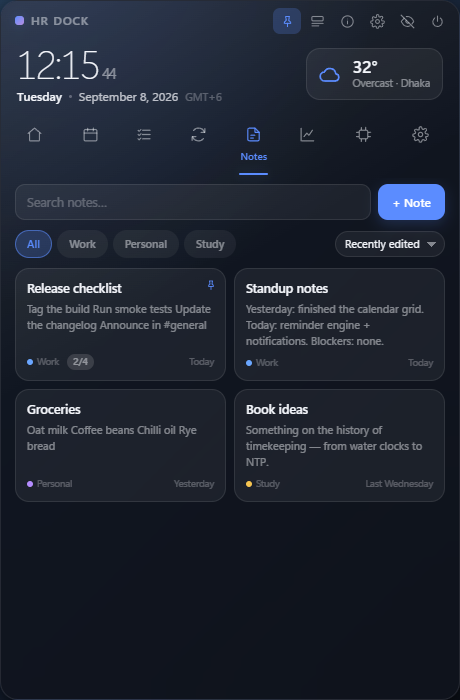
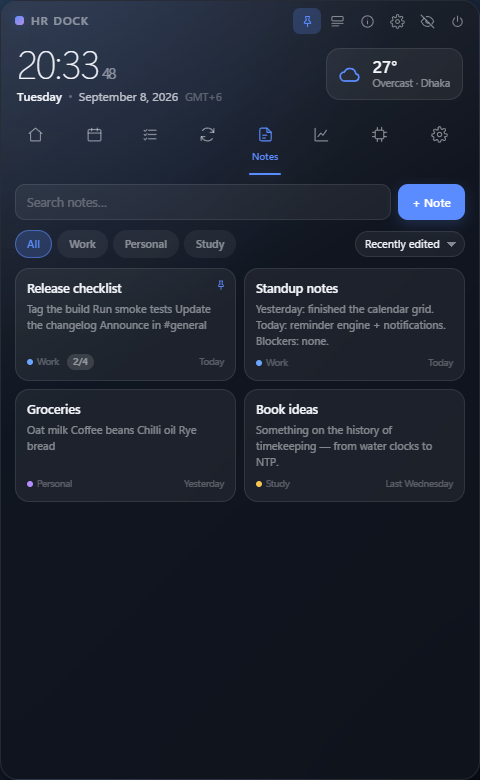
Fix editor chrome and tighten the layout at every window size
Audited the UI at 380x460, 480x780, 720x760 and 520x1000 and fixed what the
measurements caught.

- The note editor's delete and close buttons were markup with no glyph, so
  they had been invisible since the first build: two real controls you had to
  already know were there.
- The editor toolbar wrapped onto four rows at every size. Formatting is now
  one row that scrolls rather than wraps, with colour and category on their
  own labelled row, and the glyphs come from the icon set instead of a mix of
  emoji and ASCII that rendered differently on every machine.
- The month heatmap stranded itself in a third of its card on a wide window.
  It is centred now, with weekday column headings and a centred legend, so it
  reads as a month rather than a blob.
- Stat tiles, system gauges and weather metrics use auto-fit grids, so a wider
  window gains columns instead of stretching cells.
- Default window is 480x780: the Today view carries ~960px of content, and the
  old 700px frame put the schedule below the fold on first run.

Verified: no element overflows its container at any of the four sizes, the
chrome and tab bar fit at the 380px minimum, and a sweep of 472 buttons found
no other control without a visible glyph.

diff --git a/src/renderer/css/components.css b/src/renderer/css/components.css
@@ -180,7 +180,8 @@ input[type="range"]::-webkit-slider-thumb:active { transform: scale(1.15); }
 .wx-place svg { width: 11px; height: 11px; }
 
 .wx-metrics {
-  display: grid; grid-template-columns: repeat(4, 1fr);
+  display: grid;
+  grid-template-columns: repeat(auto-fit, minmax(84px, 1fr));
   gap: 8px; margin-top: 14px;
 }
 .wx-metric {
@@ -550,7 +551,11 @@ html[data-theme="light"] .note-editor { background: #f9fafd; }
 }
 
 /* -------------------------------------------------------------- insights */
-.stat-grid { display: grid; grid-template-columns: repeat(2, 1fr); gap: 8px; margin-top: 6px; }
+.stat-grid {
+  display: grid;
+  grid-template-columns: repeat(auto-fit, minmax(150px, 1fr));
+  gap: 8px; margin-top: 6px;
+}
 .stat {
   padding: 12px;
   border-radius: var(--radius-lg);
@@ -579,10 +584,19 @@ html[data-theme="light"] .note-editor { background: #f9fafd; }
 .bar-col .bar-val { font-size: 10px; color: var(--ink-3); font-variant-numeric: tabular-nums; }
 
 .heat {
-  display: grid; grid-template-columns: repeat(7, 1fr); gap: 3px;
-  /* Cap the width so the day cells stay small squares rather than growing
-     into a wall of tiles on a wide widget. */
-  max-width: 232px;
+  display: grid; grid-template-columns: repeat(7, 1fr); gap: 4px;
+  /* Cap the width so cells stay squares, and centre it so a wide widget does
+     not strand the grid against the left edge of its card. */
+  max-width: 252px;
+  margin: 0 auto;
+}
+.heat-days {
+  display: grid; grid-template-columns: repeat(7, 1fr); gap: 4px;
+  max-width: 252px; margin: 0 auto 5px;
+}
+.heat-days span {
+  text-align: center; font-size: 9px; font-weight: 600;
+  letter-spacing: .04em; text-transform: uppercase; color: var(--ink-4);
 }
 .heat i {
   aspect-ratio: 1; border-radius: 3px;
@@ -596,7 +610,7 @@ html[data-theme="light"] .note-editor { background: #f9fafd; }
 .heat i[data-l="4"] { background: var(--accent); }
 .heat i.future { opacity: .3; }
 .heat-legend {
-  display: flex; align-items: center; gap: 4px; justify-content: flex-end;
+  display: flex; align-items: center; gap: 4px; justify-content: center;
   margin-top: 8px; font-size: 9.5px; color: var(--ink-4);
 }
 .heat-legend i { width: 10px; height: 10px; border-radius: 2px; background: var(--surface-3); }
@@ -623,7 +637,11 @@ html[data-theme="light"] .note-editor { background: #f9fafd; }
 .focus-copy p { font-size: 11px; color: var(--ink-3); }
 
 /* ---------------------------------------------------------------- system */
-.gauge-row { display: grid; grid-template-columns: repeat(2, 1fr); gap: 8px; margin-top: 6px; }
+.gauge-row {
+  display: grid;
+  grid-template-columns: repeat(auto-fit, minmax(180px, 1fr));
+  gap: 8px; margin-top: 6px;
+}
 .gauge {
   display: flex; align-items: center; gap: 11px;
   padding: 12px; border-radius: var(--radius-lg);
@@ -1016,3 +1034,27 @@ mark {
 }
 .rte a { color: var(--accent); text-decoration: underline; text-underline-offset: 2px; cursor: pointer; }
 .rte a:hover { text-decoration-thickness: 2px; }
+
+/* ------------------------------------------------------ note editor chrome */
+/* The formatting row never wraps; on a very narrow widget it scrolls instead,
+   which keeps the editor looking like a toolbar rather than a pile. */
+.rte-toolbar {
+  flex-wrap: nowrap;
+  overflow-x: auto;
+  scrollbar-width: none;
+  border-bottom: none;
+  padding-bottom: 4px;
+}
+.rte-toolbar::-webkit-scrollbar { height: 0; }
+.rte-toolbar button { flex: 0 0 auto; display: grid; place-items: center; }
+.rte-toolbar button svg { display: block; }
+.rte-letter { font-size: 12.5px; }
+.rte-letter b, .rte-letter i, .rte-letter u, .rte-letter s { font-style: normal; }
+.rte-letter i { font-style: italic; }
+
+.note-props {
+  display: flex; align-items: center; gap: 10px;
+  padding: 0 12px 9px;
+  border-bottom: 1px solid var(--stroke);
+}
+.note-props .note-colors { margin: 0; }

diff --git a/src/renderer/index.html b/src/renderer/index.html
@@ -169,19 +169,20 @@
           <button class="icon-btn sm" id="noteClose" title="Save and close"></button>
         </div>
         <div class="rte-toolbar" id="rteToolbar">
-          <button data-cmd="bold" title="Bold"><b>B</b></button>
-          <button data-cmd="italic" title="Italic"><i>I</i></button>
-          <button data-cmd="underline" title="Underline"><u>U</u></button>
-          <button data-cmd="strikeThrough" title="Strikethrough"><s>S</s></button>
+          <button data-cmd="bold" title="Bold  ·  Ctrl+B" class="rte-letter"><b>B</b></button>
+          <button data-cmd="italic" title="Italic  ·  Ctrl+I" class="rte-letter"><i>I</i></button>
+          <button data-cmd="underline" title="Underline  ·  Ctrl+U" class="rte-letter"><u>U</u></button>
+          <button data-cmd="strikeThrough" title="Strikethrough" class="rte-letter"><s>S</s></button>
           <span class="rte-sep"></span>
-          <button data-cmd="insertUnorderedList" title="Bulleted list">•—</button>
-          <button data-cmd="insertOrderedList" title="Numbered list">1.</button>
-          <button data-cmd="checklist" title="Checklist">☑</button>
+          <button data-cmd="insertUnorderedList" data-icon="listBullet" title="Bulleted list  ·  type &quot;- &quot;"></button>
+          <button data-cmd="insertOrderedList" data-icon="listNumber" title="Numbered list  ·  type &quot;1. &quot;"></button>
+          <button data-cmd="checklist" data-icon="checkSquare" title="Checklist  ·  type &quot;[] &quot;"></button>
           <span class="rte-sep"></span>
-          <button data-cmd="link" title="Add link  ·  Ctrl+K">🔗</button>
-          <button data-cmd="hiliteColor" title="Highlight">▨</button>
-          <button data-cmd="removeFormat" title="Clear formatting">⌫</button>
-          <span class="rte-sep"></span>
+          <button data-cmd="link" data-icon="link" title="Add link  ·  Ctrl+K"></button>
+          <button data-cmd="hiliteColor" data-icon="highlight" title="Highlight"></button>
+          <button data-cmd="removeFormat" data-icon="clearFormat" title="Clear formatting"></button>
+        </div>
+        <div class="note-props">
           <span class="note-colors" id="noteColors"></span>
           <select id="noteCategory" class="mini-select"></select>
         </div>

diff --git a/src/renderer/js/icons.js b/src/renderer/js/icons.js
@@ -39,6 +39,13 @@
     pause: '<path d="M8 4v16M16 4v16"/>',
     reset: '<path d="M3 12a9 9 0 1 0 2.6-6.4"/><path d="M3 3v6h6"/>',
 
+    listBullet: '<path d="M9 6h11M9 12h11M9 18h11"/><circle cx="4.5" cy="6" r="1.4"/><circle cx="4.5" cy="12" r="1.4"/><circle cx="4.5" cy="18" r="1.4"/>',
+    listNumber: '<path d="M10 6h10M10 12h10M10 18h10"/><path d="M4 7V3.5L2.8 4.3"/><path d="M2.6 11.2c.3-.6 1-1 1.7-.7.8.3.9 1.3.3 1.9L2.6 14h3"/><path d="M2.7 17h2.6l-1.5 1.7c.9 0 1.6.4 1.6 1.2 0 .7-.6 1.2-1.5 1.2-.7 0-1.2-.2-1.5-.6"/>',
+    checkSquare: '<rect x="3" y="3" width="18" height="18" rx="3"/><path d="m8 12 2.8 2.8L16.5 9"/>',
+    link: '<path d="M10 13.5a4 4 0 0 0 5.7.4l2.6-2.6a4 4 0 0 0-5.7-5.7L11.1 7"/><path d="M14 10.5a4 4 0 0 0-5.7-.4l-2.6 2.6a4 4 0 0 0 5.7 5.7L12.9 17"/>',
+    highlight: '<path d="m14 4 6 6-8.5 8.5H6l-1.5-3L14 4Z"/><path d="M4 21h16"/>',
+    clearFormat: '<path d="M8 5h11M13 5 9.5 19"/><path d="m15 13 6 6M21 13l-6 6"/>',
+
     // meta / attributes
     clock: '<circle cx="12" cy="12" r="9"/><path d="M12 7v5l3.5 2"/>',
     bell: '<path d="M18 8a6 6 0 1 0-12 0c0 6-3 7-3 7h18s-3-1-3-7"/><path d="M13.7 21a2 2 0 0 1-3.4 0"/>',

diff --git a/src/renderer/js/notes.js b/src/renderer/js/notes.js
@@ -524,6 +524,17 @@
     mounted = true;
     try { document.execCommand('defaultParagraphSeparator', false, 'div'); } catch (_) { /* older engines */ }
 
+    // Paint the toolbar glyphs from the icon set: the old mix of emoji and
+    // ASCII rendered at different weights and sizes on every machine.
+    for (const btn of UI.$$('#rteToolbar button[data-icon]')) {
+      btn.innerHTML = Icons.icon(btn.dataset.icon, 15);
+    }
+    // These two were markup-only and never given a glyph, so the editor's
+    // delete and close controls were invisible: real buttons you had to know
+    // were there.
+    $('#noteDelete').innerHTML = Icons.icon('trash', 13);
+    $('#noteClose').innerHTML = Icons.icon('x', 13);
+
     $('#noteAdd').addEventListener('click', () => open(null));
     $('#noteClose').addEventListener('click', close);
 

diff --git a/src/renderer/js/stats.js b/src/renderer/js/stats.js
@@ -183,6 +183,16 @@
     const today = DT.todayKey();
     let monthTotal = 0;
 
+    // Column headings make the grid readable as a month rather than a blob.
+    const labels = document.querySelector('#monthHeat').previousElementSibling;
+    if (labels && labels.classList.contains('heat-days')) labels.remove();
+    const weekStart = Number(State.settings().firstDayOfWeek) || 0;
+    const head = document.createElement('div');
+    head.className = 'heat-days';
+    head.innerHTML = [0, 1, 2, 3, 4, 5, 6]
+      .map(i => '<span>' + DT.DAY_NAMES[(weekStart + i) % 7].slice(0, 1) + '</span>').join('');
+    host.parentNode.insertBefore(head, host);
+
     host.innerHTML = cells.map(date => {
       const key = DT.key(date);
       const inMonth = date.getMonth() === now.getMonth();

diff --git a/src/main/main.js b/src/main/main.js
@@ -30,7 +30,7 @@ const captureArg = process.argv.find(a => a.startsWith('--capture='));
 const captureTarget = captureArg ? captureArg.slice('--capture='.length) : null;
 if (process.env.HRDOCK_USER_DATA) app.setPath('userData', process.env.HRDOCK_USER_DATA);
 
-const EXPANDED = { width: 460, height: 700, minWidth: 380, minHeight: 460 };
+const EXPANDED = { width: 480, height: 780, minWidth: 380, minHeight: 460 };
 const COMPACT = { width: 340, height: 210, minWidth: 260, minHeight: 120 };
 const SNAP_PX = 24;
 
